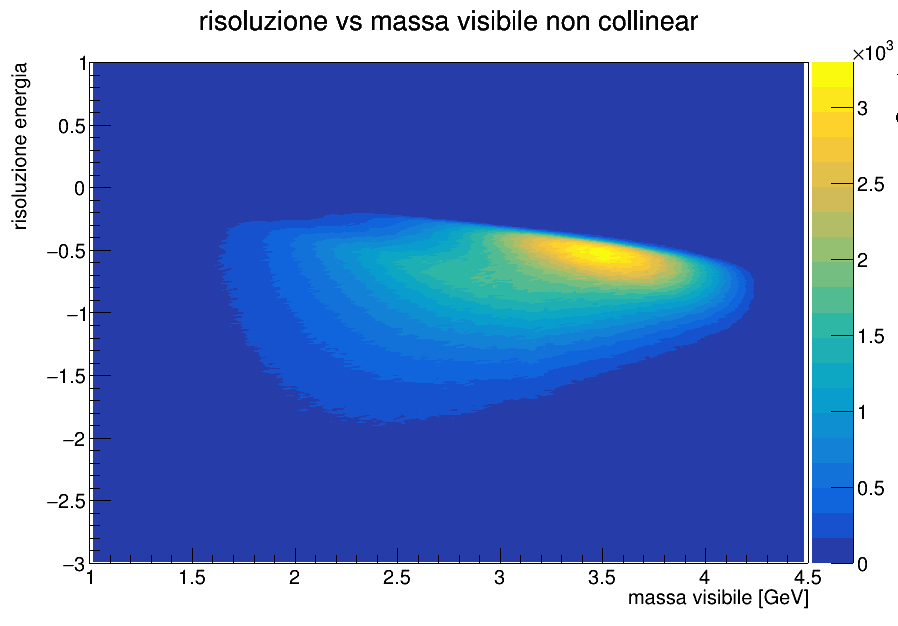
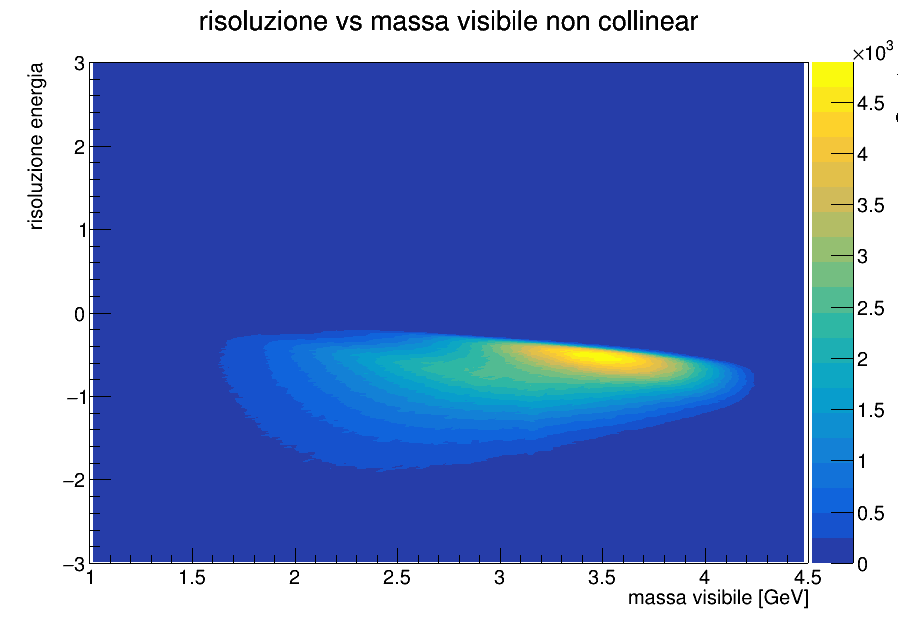
Visitor per la stampa

diff --git a/programma_analisi_dati/AnalysisPlugins/ViPrint.cc b/programma_analisi_dati/AnalysisPlugins/ViPrint.cc
@@ -1,0 +1,76 @@
+#include "../AnalysisObjects/ObjColl.h"
+#include "../AnalysisObjects/ObjImpColl.h"
+#include "../AnalysisObjects/ObjNonColl.h"
+#include "../AnalysisObjects/ObjAn.h"
+#include "../AnalysisObjects/ObjAnColl.h"
+#include "ViPrint.h"
+
+ViPrint::ViPrint()
+{
+}
+
+ViPrint::~ViPrint()
+{
+    delete c;
+}
+
+void ViPrint::Visit(ObjColl *obj)
+{
+    c = new TCanvas("c", "c", 900, 650);
+    c->cd();
+    obj->GetH()->Draw("CONT4Z");
+    c->SaveAs("../analisi_risoluzione_energia/collinear/Resolution_coll.png");
+
+    obj->GetP()->Draw();
+    c->SaveAs("../analisi_risoluzione_energia/collinear/Profile_coll.png");
+}
+
+void ViPrint::Visit(ObjImpColl *obj)
+{
+    c = new TCanvas("c", "c", 900, 650);
+    c->cd();
+
+    obj->GetH()->Draw("CONT4Z");
+    c->SaveAs("../analisi_risoluzione_energia/improved_collinear/Resolution_imp_coll.png");
+
+    obj->GetP()->Draw();
+    c->SaveAs("../analisi_risoluzione_energia/improved_collinear/Profile_imp_coll.png");
+}
+
+void ViPrint::Visit(ObjNonColl *obj)
+{
+    c = new TCanvas("c", "c", 900, 650);
+    c->cd();
+
+    obj->GetH()->Draw("CONT4Z");
+    c->SaveAs("../analisi_risoluzione_energia/non_collinear/Resolution_non_coll.png");
+
+    obj->GetP()->Draw();
+    c->SaveAs("../analisi_risoluzione_energia/non_collinear/Profile_non_coll.png");
+}
+
+void ViPrint::Visit(ObjAn *obj)
+{
+    c = new TCanvas("c", "c", 900, 650);
+    c->cd();
+
+    obj->GetHMin()->Draw("CONT4Z");
+    c->SaveAs("../analisi_risoluzione_energia/analitica/Resolution_an_min.png");
+    obj->GetHMag()->Draw("CONT4Z");
+    c->SaveAs("../analisi_risoluzione_energia/analitica/Resolution_an_mag.png");
+    obj->GetHCorr()->Draw("CONT4Z");
+    c->SaveAs("../analisi_risoluzione_energia/analitica/Resolution_an_corr.png");
+    obj->GetHMean()->Draw("CONT4Z");
+    c->SaveAs("../analisi_risoluzione_energia/analitica/Resolution_an_mean.png");
+    obj->GetHCos()->Draw("CONT4Z");
+    c->SaveAs("../analisi_risoluzione_energia/analitica/Resolution_an_cos.png");
+
+    obj->GetPCorr()->Draw();
+    c->SaveAs("../analisi_risoluzione_energia/analitica/Profile_an_corr.png");
+    obj->GetPMean()->Draw();
+    c->SaveAs("../analisi_risoluzione_energia/analitica/Profile_an_mean.png");
+    obj->GetPCos()->Draw();
+    c->SaveAs("../analisi_risoluzione_energia/analitica/Profile_an_cos.png");
+}
+
+void ViPrint::Visit(ObjAnColl *obj) {} // TODO

diff --git a/programma_analisi_dati/run.cc b/programma_analisi_dati/run.cc
@@ -4,16 +4,23 @@ void run()
 {
     gROOT->ProcessLine(".L ./AnalysisUtilities/Utilities.cc");
     gROOT->ProcessLine(".L ./AnalysisUtilities/UtilitiesAnalytic.cc");
+
     gROOT->ProcessLine(".L ./AnalysisFramework/Observer.cc");
     gROOT->ProcessLine(".L ./AnalysisFramework/Dispatcher.cc");
     gROOT->ProcessLine(".L ./AnalysisFramework/AnalysisObject.cc");
+    gROOT->ProcessLine(".L ./AnalysisFramework/Visitor.cc");
+    gROOT->ProcessLine(".L ./AnalysisFramework/AnalysisSteering.cc");
+
     gROOT->ProcessLine(".L ./AnalysisObjects/ObjAn.cc");
     gROOT->ProcessLine(".L ./AnalysisObjects/ObjAnColl.cc");
     gROOT->ProcessLine(".L ./AnalysisObjects/ObjColl.cc");
     gROOT->ProcessLine(".L ./AnalysisObjects/ObjImpColl.cc");
     gROOT->ProcessLine(".L ./AnalysisObjects/ObjNonColl.cc");
+
+    gROOT->ProcessLine(".L ./AnalysisPlugins/ViPrint.cc");
+
     gROOT->ProcessLine(".L TagSide.cc");
 
     gROOT->ProcessLine("TagSide t;");
-    gROOT->ProcessLine("t.Loop()");
+    // gROOT->ProcessLine("t.Loop()");
 }

diff --git a/programma_analisi_dati/AnalysisObjects/ObjImpColl.cc b/programma_analisi_dati/AnalysisObjects/ObjImpColl.cc
@@ -1,7 +1,12 @@
 #include "ObjImpColl.h"
+#include "../AnalysisFramework/Visitor.h"
+#include "../AnalysisFramework/AnalysisSteering.h"
+#include "../AnalysisFramework/AnalysisSteering.h"
 
 ObjImpColl::ObjImpColl()
 {
+    AnalysisSteering::subscribe(this);
+
     hris = new TH2D("Resolution_imp_coll", "risoluzione vs massa visibile improved collinear", 100, 1, 4.5, 300, -3, 1);
     hris->GetXaxis()->SetTitle("massa visibile [GeV]");
     hris->GetYaxis()->SetTitle("risoluzione energia");
@@ -27,4 +32,9 @@ void ObjImpColl::AddPoint(const TLorentzVector &tlv_Btag, const TLorentzVector &
     ris = (tlv_Btag.T() - en) / tlv_Btag.T();
     hris->Fill(tlv_visibile.M(), ris);
     pris->Fill(tlv_visibile.M(), ris, 1);
+}
+
+void ObjImpColl::Accept(Visitor *v)
+{
+    v->Visit(this);
 }

diff --git a/programma_analisi_dati/AnalysisFramework/AnalysisSteering.cc b/programma_analisi_dati/AnalysisFramework/AnalysisSteering.cc
@@ -1,0 +1,35 @@
+#include "AnalysisSteering.h"
+#include "AnalysisObject.h"
+#include "Visitor.h"
+#include <set>
+
+AnalysisSteering::AnalysisSteering() {}
+
+AnalysisSteering::~AnalysisSteering() {}
+
+std::set<AnalysisObject *> *AnalysisSteering::aL()
+{
+    static std::set<AnalysisObject *> *ptr = new std::set<AnalysisObject *>;
+    return ptr;
+}
+
+void AnalysisSteering::subscribe(AnalysisObject *obs)
+{
+    aL()->insert(obs);
+}
+
+void AnalysisSteering::unsubscribe(AnalysisObject *obs)
+{
+    aL()->erase(obs);
+}
+
+void AnalysisSteering::AcceptAll(Visitor *v)
+{
+    std::set<AnalysisObject *>::iterator it = aL()->begin();
+    std::set<AnalysisObject *>::iterator ei = aL()->end();
+    while (it != ei)
+    {
+        (*it++)->Accept(v);
+    }
+    return;
+}

diff --git a/programma_analisi_dati/AnalysisObjects/ObjColl.cc b/programma_analisi_dati/AnalysisObjects/ObjColl.cc
@@ -1,8 +1,12 @@
 #include "ObjColl.h"
 #include "../AnalysisUtilities/Utilities.h"
+#include "../AnalysisFramework/Visitor.h"
+#include "../AnalysisFramework/AnalysisSteering.h"
 
 ObjColl::ObjColl()
 {
+    AnalysisSteering::subscribe(this);
+
     hris = new TH2D("Resolution_coll", "risoluzione vs massa hrisear", 100, 1, 4.5, 300, -3, 3);
     hris->GetXaxis()->SetTitle("massa visibile [GeV]");
     hris->GetYaxis()->SetTitle("risoluzione energia");
@@ -28,4 +32,9 @@ void ObjColl::AddPoint(const TLorentzVector &tlv_Btag, const TLorentzVector &tlv
     ris = (tlv_Btag.T() - en) / tlv_Btag.T();
     hris->Fill(tlv_visibile.M(), ris);
     pris->Fill(tlv_visibile.M(), ris, 1);
+}
+
+void ObjColl::Accept(Visitor *v)
+{
+    v->Visit(this);
 }

diff --git a/programma_analisi_dati/AnalysisObjects/ObjAn.cc b/programma_analisi_dati/AnalysisObjects/ObjAn.cc
@@ -3,9 +3,14 @@
 #include "TH2D.h"
 #include "TProfile.h"
 #include "../AnalysisUtilities/UtilitiesAnalytic.h"
+#include "../AnalysisFramework/Visitor.h"
+#include "../AnalysisFramework/AnalysisSteering.h"
 
 ObjAn::ObjAn()
 {
+
+    AnalysisSteering::subscribe(this);
+
     Resolution_an_mag = new TH2D("Resolution_an_mag", "risoluzione vs massa visibile,  metodo analitico soluzione maggiore", 100, 1, 4.5, 300, -0.004, 0);
     Resolution_an_mag->GetXaxis()->SetTitle("massa visibile [GeV]");
     Resolution_an_mag->GetYaxis()->SetTitle("risoluzione energia");
@@ -143,4 +148,9 @@ TProfile *ObjAn::GetPCos()
 TProfile *ObjAn::GetPCorr()
 {
     return an_corr_profile;
+}
+
+void ObjAn::Accept(Visitor *v)
+{
+    v->Visit(this);
 }

diff --git a/programma_analisi_dati/AnalysisObjects/ObjNonColl.cc b/programma_analisi_dati/AnalysisObjects/ObjNonColl.cc
@@ -1,7 +1,11 @@
 #include "ObjNonColl.h"
+#include "../AnalysisFramework/Visitor.h"
+#include "../AnalysisFramework/AnalysisSteering.h"
 
 ObjNonColl::ObjNonColl()
 {
+    AnalysisSteering::subscribe(this);
+
     hris = new TH2D("Resolution_non_coll", "risoluzione vs massa visibile non collinear", 100, 1, 4.5, 300, -3, 3);
     hris->GetXaxis()->SetTitle("massa visibile [GeV]");
     hris->GetYaxis()->SetTitle("risoluzione energia");
@@ -28,4 +32,9 @@ void ObjNonColl::AddPoint(const TLorentzVector &tlv_Btag, const TLorentzVector &
     ris = (tlv_Btag.T() - en) / tlv_Btag.T();
     hris->Fill(tlv_visibile.M(), ris);
     pris->Fill(tlv_visibile.M(), ris, 1);
+}
+
+void ObjNonColl::Accept(Visitor *v)
+{
+    v->Visit(this);
 }

diff --git a/programma_analisi_dati/TagSide.cc b/programma_analisi_dati/TagSide.cc
@@ -17,9 +17,14 @@
 #include "./AnalysisObjects/ObjImpColl.h"
 #include "./AnalysisObjects/ObjNonColl.h"
 #include "./AnalysisFramework/Dispatcher.h"
+#include "./AnalysisFramework/AnalysisSteering.h"
+
+#include "./AnalysisPlugins/ViPrint.h"
 
 #include <string>
 #include <iostream>
+
+ViPrint *print = new ViPrint();
 
 Double_t vis_mass;
 Double_t vis_mass2;
@@ -97,4 +102,7 @@ void TagSide::Loop(std::string dump)
       Dispatcher::Notify(tlv_Btag, tlv_visibile);
    }
    std::cout << "completed without errors! :-)" << std::endl;
+
+   // salvo e stampo
+   AnalysisSteering::AcceptAll(print);
 }

diff --git a/programma_analisi_dati/AnalysisFramework/Visitor.h b/programma_analisi_dati/AnalysisFramework/Visitor.h
@@ -9,13 +9,14 @@ class ObjAnColl;
 
 class Visitor
 {
+public:
     Visitor();
-    ~Visitor();
-    virtual void Visit(ObjColl *);
-    virtual void Visit(ObjImpColl *);
-    virtual void Visit(ObjNonColl *);
-    virtual void Visit(ObjAn *);
-    virtual void Visit(ObjAnColl *);
+    virtual ~Visitor();
+    virtual void Visit(ObjColl *) = 0;
+    virtual void Visit(ObjImpColl *) = 0;
+    virtual void Visit(ObjNonColl *) = 0;
+    virtual void Visit(ObjAn *) = 0;
+    virtual void Visit(ObjAnColl *) = 0;
 };
 
 #endif

diff --git a/programma_analisi_dati/AnalysisFramework/AnalysisSteering.h b/programma_analisi_dati/AnalysisFramework/AnalysisSteering.h
@@ -1,0 +1,23 @@
+#ifndef AnalysisSteering_h
+#define AnalysisSteering_h
+
+#include <set>
+
+class AnalysisObject;
+class Visitor;
+
+class AnalysisSteering
+{
+public:
+    static void AcceptAll(Visitor *v);
+
+    static void subscribe(AnalysisObject *an);
+    static void unsubscribe(AnalysisObject *an);
+
+private:
+    AnalysisSteering();
+    ~AnalysisSteering();
+    static std::set<AnalysisObject *> *aL();
+};
+
+#endif

diff --git a/programma_analisi_dati/AnalysisPlugins/ViPrint.h b/programma_analisi_dati/AnalysisPlugins/ViPrint.h
@@ -1,0 +1,21 @@
+#ifndef ViPrint_h
+#define ViPrint_h
+#include "TCanvas.h"
+#include "../AnalysisFramework/Visitor.h"
+
+class ViPrint : public Visitor
+{
+public:
+    ViPrint();
+    ~ViPrint();
+    void Visit(ObjColl *) override;
+    void Visit(ObjImpColl *) override;
+    void Visit(ObjNonColl *) override;
+    void Visit(ObjAn *) override;
+    void Visit(ObjAnColl *) override;
+
+private:
+    TCanvas *c;
+};
+
+#endif

diff --git a/programma_analisi_dati/AnalysisObjects/ObjNonColl.h b/programma_analisi_dati/AnalysisObjects/ObjNonColl.h
@@ -1,6 +1,7 @@
 #ifndef ObjNonColl_h
 #define ObjNonColl_h
 #include "../AnalysisFramework/AnalysisObject.h"
+#include "../AnalysisFramework/Visitor.h"
 
 class ObjNonColl : public AnalysisObject
 {
@@ -8,6 +9,7 @@ public:
     ObjNonColl();
     ~ObjNonColl();
     void AddPoint(const TLorentzVector &tlv_B, const TLorentzVector &tlv_vis) override;
+    void Accept(Visitor *) override;
 
 private:
     Double_t pvz;
